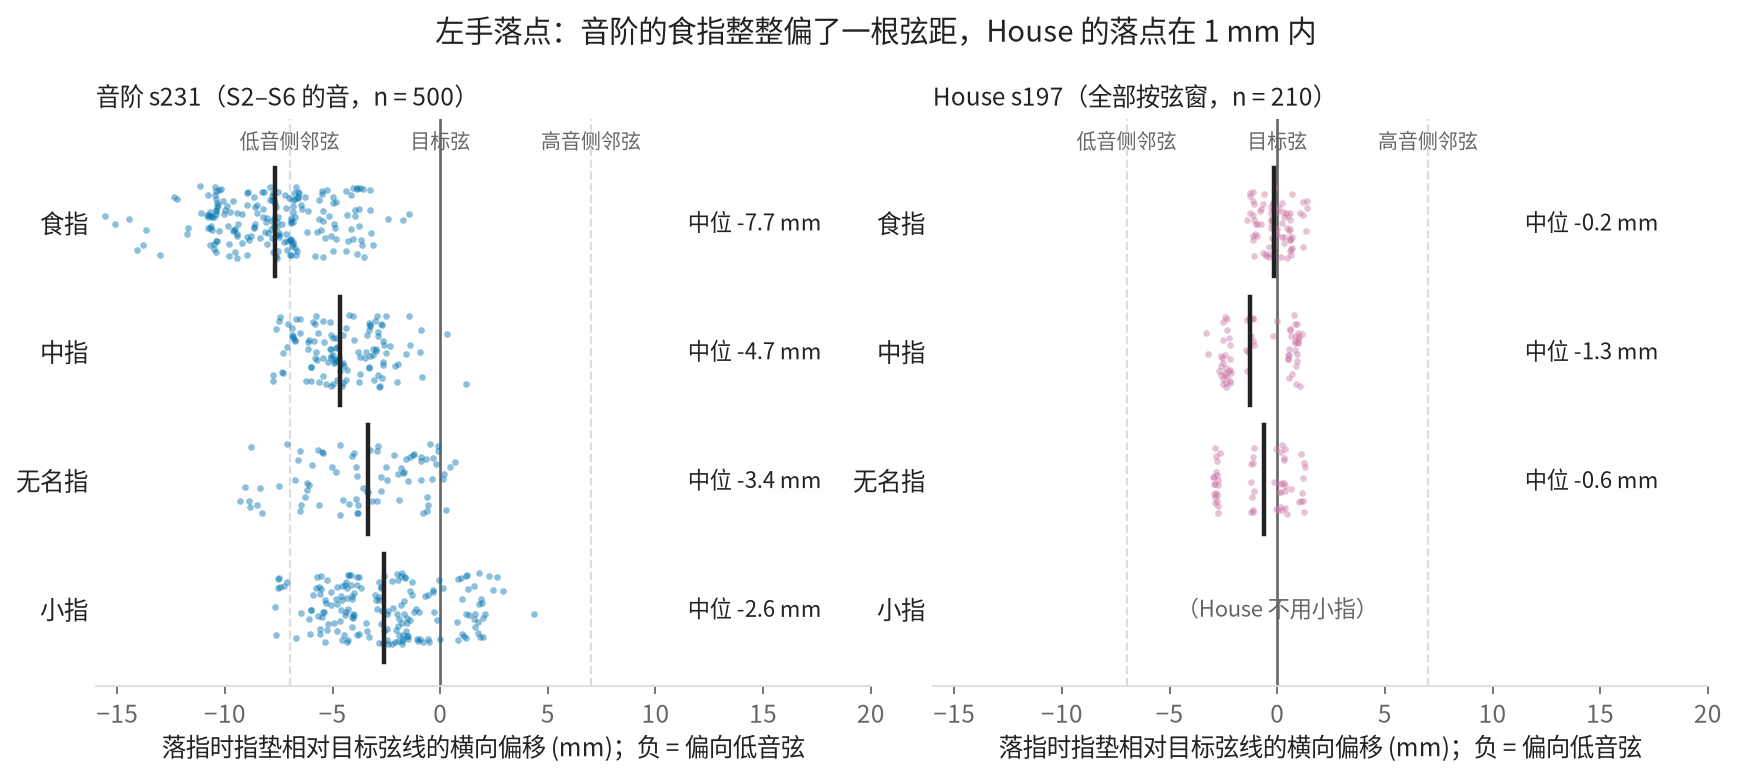
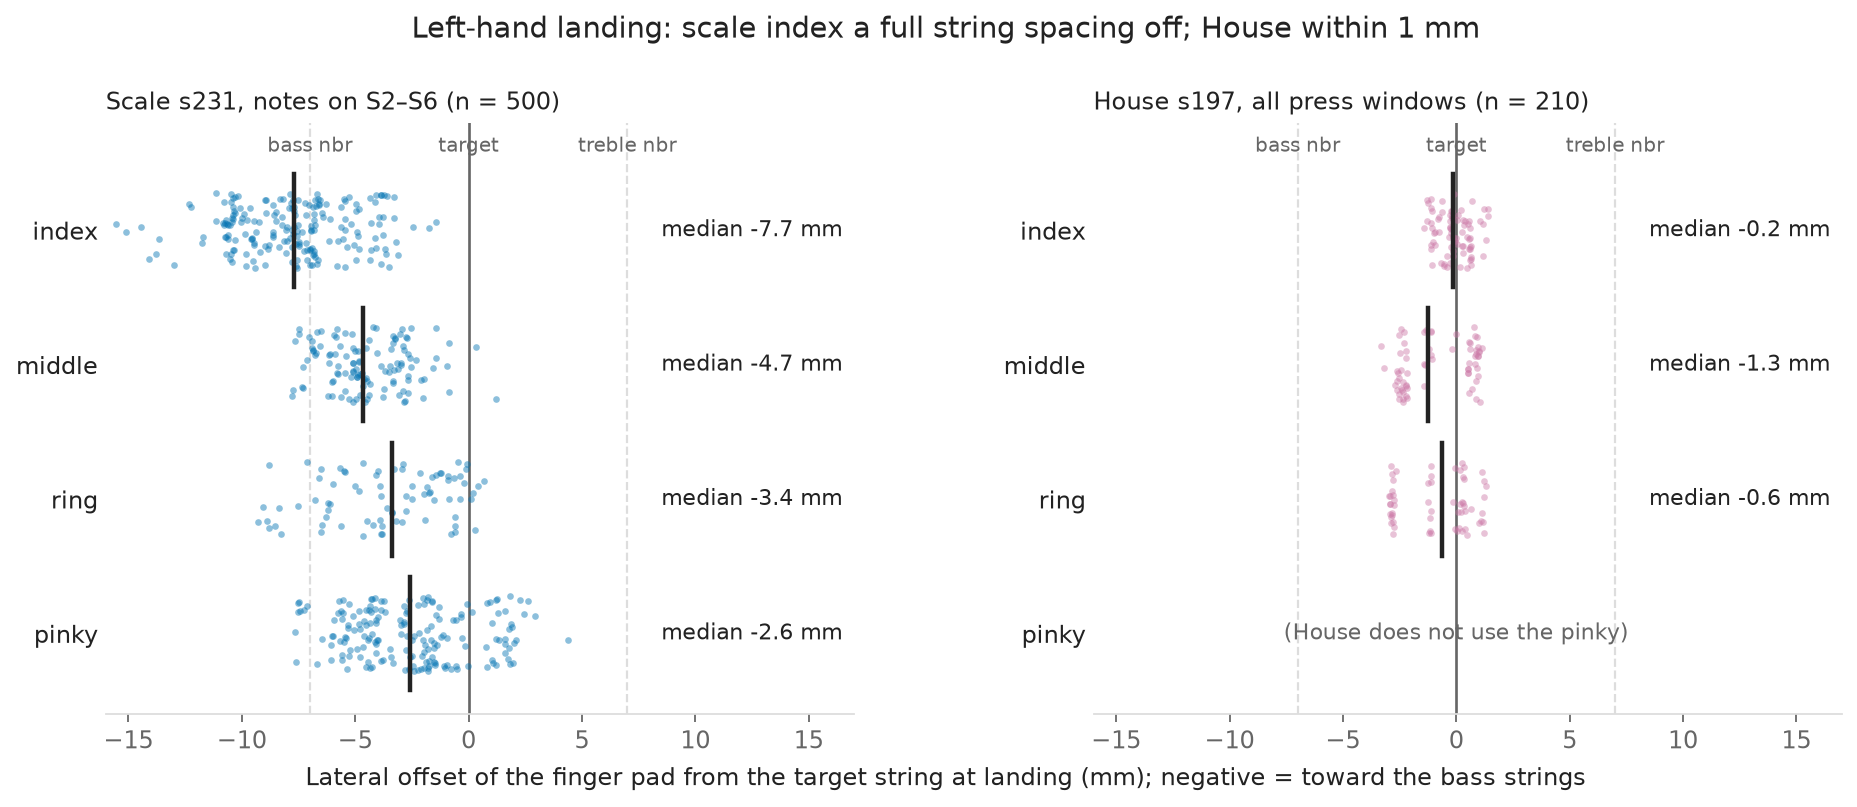
Hub 11-06: simpler figures, English labels
Claude-Session: https://claude.ai/code/session_01XaxYq4Ba2HDRj4xyWSgLCk

diff --git a/projects/dexterous-guitar-hub-1106.html b/projects/dexterous-guitar-hub-1106.html
@@ -45,7 +45,7 @@ h2{font-size:21px;margin:40px 0 12px;text-wrap:balance}
 .tile .v{font-family:var(--mono);font-weight:600;font-size:20px;line-height:1.1;font-variant-numeric:tabular-nums}
 .tile .k{font-size:11.5px;color:var(--muted);letter-spacing:.3px;text-transform:uppercase;margin-top:2px}
 .tile.ok .v{color:var(--ok)} .tile.warn .v{color:var(--warn)} .tile.bad .v{color:var(--bad)}
-.gal{display:grid;grid-template-columns:1fr;gap:14px}
+.gal{display:grid;grid-template-columns:1fr;gap:14px;max-width:900px}
 .gal figure{margin:0;min-width:0} .gal img{width:100%;max-width:100%;border-radius:6px;border:1px solid var(--line);display:block;background:#fff}
 .note{font-size:13px;color:var(--muted)}
 .foot{margin-top:44px;border-top:1px solid var(--line);padding-top:12px;color:var(--muted);font-size:12.5px}
@@ -147,8 +147,8 @@ td.ok{color:var(--ok);font-weight:600} td.bad{color:var(--bad);font-weight:600} 
       <div class="t">The index finger lands a full string spacing on the bass side of its target (median −7.7 mm; House −0.2 mm)</div>
       <p class="m" style="margin:0 0 8px">From the per-tick physics of 700 note × world cases: the policy shifts the whole hand 6–8 mm toward the bass side to rescue the ring and pinky, whose reference landings slide 5 mm treble-ward once pressed. It picks one compromise position instead of adjusting the hand note by note the way a player does. The arm tracking reward is flat at that error (0.1 rad kernel ≈ 45 mm at the hand; a 7 mm shift costs 1 %). Two reward terms that give each finger its own lateral gradient failed: in the task head no trend in 6 updates, in the string heads 13.6 / 70, worse than the 15.7 control. Pinning the arm to the reference (dead band 0, weight ×10) does not move the arm error at all over 6 updates. The candidates are in Next.</p>
       <div class="gal">
-        <figure><img src="../assets/guitar-hub/figures/scale_s231_press_grid_1106.png" alt="70 notes x 10 worlds press outcome grid"><figcaption>70 notes × 10 worlds. Green = fretted; red = pressed the bass-side neighbour; amber = reached the string but never the fret wire. The low E string (dark band) works; the two passages that climb toward the treble strings fail almost everywhere.</figcaption></figure>
-        <figure><img src="../assets/guitar-hub/figures/lateral_offset_scale_vs_house_1106.png" alt="lateral landing offset per finger, scale vs House"><figcaption>Lateral offset of the finger pad from the target string at landing. Scale (S2–S6 notes): every finger sits on the bass side, the index right on the neighbour string. House: within 1 mm.</figcaption></figure>
+        <figure><img src="../assets/guitar-hub/figures/scale_s231_press_by_string_1106.png" alt="share of notes fretted per string"><figcaption>Only the low E string works.</figcaption></figure>
+        <figure><img src="../assets/guitar-hub/figures/lateral_offset_scale_vs_house_1106.png" alt="lateral landing offset per finger, scale vs House"><figcaption>Where the finger pad lands relative to its string. Scale: every finger on the bass side, the index on the neighbour string. House: within 1 mm.</figcaption></figure>
       </div>
     </div>
     <div class="card wide blk b2">
